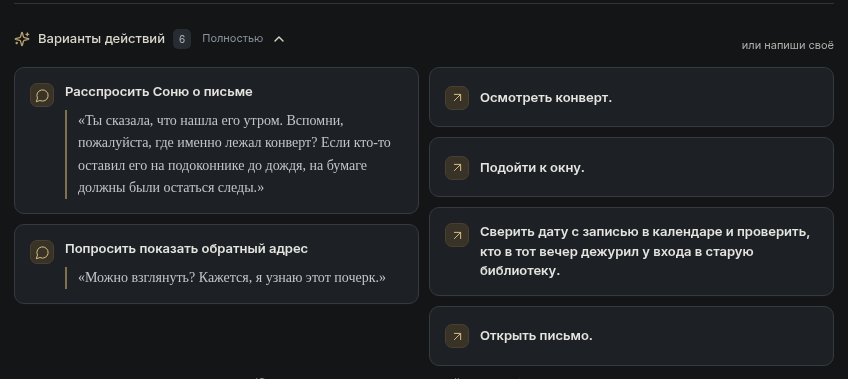
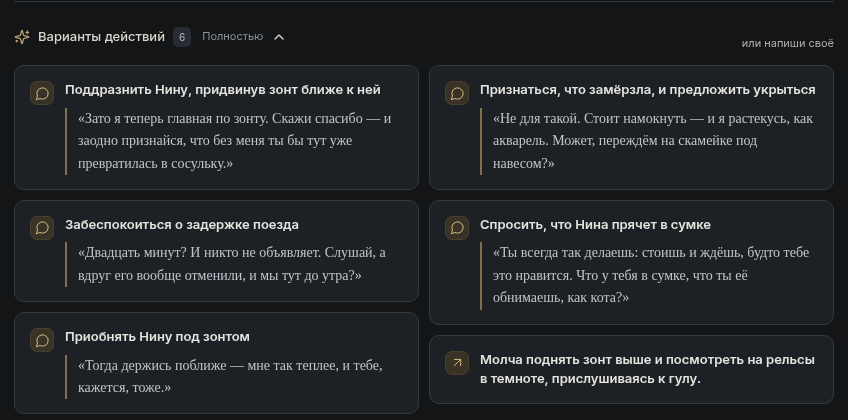
Balance Narrative choice columns using the measured heights of the whole menu

diff --git a/frontend/e2e/choices.spec.ts b/frontend/e2e/choices.spec.ts
@@ -1,5 +1,8 @@
 import {test,expect} from '@playwright/test';
 import {scrollByTouch} from './touch';
+import romance from '../../tests/fixtures/choice_speech/romance.json' with {type: 'json'};
+import ensemble from '../../tests/fixtures/choice_speech/ensemble.json' with {type: 'json'};
+import silent from '../../tests/fixtures/choice_speech/silent.json' with {type: 'json'};
 
 test('choice proposals survive reload without committing action; free input remains available',async({page,request})=>{
  const errors:string[]=[];page.on('pageerror',e=>errors.push(e.message));
@@ -180,59 +183,76 @@ test('proposal types, confirmation, exact editable speech and a single pending s
   expect(await page.evaluate(()=>document.documentElement.scrollWidth)).toBeLessThanOrEqual(page.viewportSize()!.width);
 });
 
-test('unequal action cards fill the first available column in keyboard order', async ({page, request}, info) => {
-  test.skip(info.project.name !== 'desktop', 'Exercises both layouts by resizing the same game');
-  const choices = [
-    {action: 'Расспросить Соню о письме', speech: 'Ты сказала, что нашла его утром. Вспомни, пожалуйста, где именно лежал конверт? Если кто-то оставил его на подоконнике до дождя, на бумаге должны были остаться следы.'},
-    {action: 'Осмотреть конверт.', speech: ''},
-    {action: 'Подойти к окну.', speech: ''},
-    {action: 'Сверить дату с записью в календаре и проверить, кто в тот вечер дежурил у входа в старую библиотеку.', speech: ''},
-    {action: 'Попросить показать обратный адрес', speech: 'Можно взглянуть? Кажется, я узнаю этот почерк.'},
-    {action: 'Открыть письмо.', speech: ''},
-  ];
-  const selection = await (await request.post('/test/choices-seed')).json();
-  const path = '/api/saves/' + selection.save;
-  const save = await (await request.get(path)).json();
-  save.turns.find((t: {id: number}) => t.id === save.physical_choice_source.turn_id).choices = choices;
-  await page.route('**' + path, route => route.fulfill({json: save}));
-  await page.addInitScript(s => localStorage.setItem('selection', JSON.stringify(s)), selection);
-  await page.emulateMedia({reducedMotion: 'reduce'});
-  await page.goto('/');
-  const cards = page.locator('.choices button');
-  await expect(cards.locator('strong')).toHaveText(choices.map(c => c.action));
+// Recorded Narrative responses with both silent actions and direct speech.
+const menus = [
+  [romance.actions[5], romance.actions[3], romance.actions[0]],
+  ensemble.actions.slice(0, 5),
+  romance.actions,
+  [...silent.actions.slice(0, 4), ...ensemble.actions],
+];
 
-  for (const width of [1440, 1024, 850, 390, 1440]) {
-    await page.setViewportSize({width, height: 900});
-    const columns = width > 850 ? 2 : 1;
-    await expect(async () => {
-      const {list, boxes, gap} = await cards.evaluateAll(nodes => {
-        const container = nodes[0].parentElement!;
-        return {
-          list: container.getBoundingClientRect().toJSON(),
-          boxes: nodes.map(n => n.getBoundingClientRect().toJSON()),
-          gap: parseFloat(getComputedStyle(container).rowGap),
-        };
-      });
-      const nextTop = Array<number>(columns).fill(list.top);
-      const cardWidth = (list.width - (columns - 1) * gap) / columns;
-      expect(boxes[0].height).toBeGreaterThan(boxes[1].height + gap);
-      for (const box of boxes) {
-        const column = nextTop.indexOf(Math.min(...nextTop));
-        expect(box.width).toBeCloseTo(cardWidth, 1);
-        expect(box.left).toBeCloseTo(list.left + column * (cardWidth + gap), 1);
-        expect(box.top).toBeCloseTo(nextTop[column], 1);
-        nextTop[column] = box.bottom + gap;
-      }
-      expect(list.bottom).toBeCloseTo(Math.max(...nextTop) - gap, 1);
-    }).toPass({timeout: 5000});
-  }
+for (const actions of menus) {
+  test(`balances ${actions.length} measured choices and keeps their accessible order`, async ({page, request}, info) => {
+    test.skip(info.project.name !== 'desktop', 'Resizes the same list across both layouts');
+    const selection = await (await request.post('/test/choices-seed')).json();
+    const path = '/api/saves/' + selection.save;
+    const save = await (await request.get(path)).json();
+    const choices = actions.map(a => ({action: a.text, speech: a.speech || ''}));
+    save.turns.find((t: {id: number}) => t.id === save.physical_choice_source.turn_id).choices = choices;
+    await page.route('**' + path, route => route.fulfill({json: save}));
+    await page.addInitScript(s => localStorage.setItem('selection', JSON.stringify(s)), selection);
+    await page.emulateMedia({reducedMotion: 'reduce'});
+    await page.goto('/');
+    const cards = page.locator('.choices').getByRole('button');
+    await expect(cards.locator('strong')).toHaveText(actions.map(a => a.text));
+    await expect(cards.locator('.choice-speech')).toHaveText(actions.flatMap(a => a.speech ? ['«' + a.speech + '»'] : []));
 
-  await cards.first().focus();
-  for (let i = 1; i < choices.length; i++) {
-    await page.keyboard.press('Tab');
-    await expect(cards.nth(i)).toBeFocused();
-  }
-  await page.keyboard.press('Enter');
-  await expect(cards.last()).toHaveAttribute('aria-pressed', 'true');
-  await expect(page.getByLabel('Своё действие или реплика')).toHaveValue(choices.at(-1)!.action);
-});
+    for (const width of [1440, 1024, 850, 390, 1440]) {
+      await page.setViewportSize({width, height: 900});
+      const columns = width > 850 ? 2 : 1;
+      await expect(async () => {
+        const {list, boxes, gap, clipped} = await cards.evaluateAll(nodes => {
+          const container = nodes[0].parentElement!;
+          return {
+            list: container.getBoundingClientRect().toJSON(),
+            boxes: nodes.map(n => n.getBoundingClientRect().toJSON()),
+            gap: parseFloat(getComputedStyle(container).rowGap),
+            clipped: nodes.some(n => n.scrollHeight > n.clientHeight || n.scrollWidth > n.clientWidth),
+          };
+        });
+        expect(clipped).toBe(false);
+        const nextTop = Array<number>(columns).fill(list.top);
+        const cardWidth = (list.width - (columns - 1) * gap) / columns;
+        for (const box of boxes) {
+          const column = Math.round((box.left - list.left) / (cardWidth + gap));
+          expect(box.width).toBeCloseTo(cardWidth, 1);
+          expect(box.left).toBeCloseTo(list.left + column * (cardWidth + gap), 1);
+          expect(box.top).toBeCloseTo(nextTop[column], 1);
+          nextTop[column] = box.bottom + gap;
+        }
+        expect(list.bottom).toBeCloseTo(Math.max(...nextTop) - gap, 1);
+        if (columns === 2) {
+          // Independent oracle: enumerate every partition of the actual browser heights.
+          let minimum = Infinity;
+          for (let mask = 1; mask < (1 << boxes.length) - 1; mask++) {
+            const difference = boxes.reduce((sum, box, i) =>
+              sum + ((mask & (1 << i)) ? 1 : -1) * (box.height + gap), 0);
+            minimum = Math.min(minimum, Math.abs(difference));
+          }
+          expect(Math.abs(nextTop[0] - nextTop[1])).toBeCloseTo(minimum, 1);
+        }
+      }).toPass({timeout: 5000});
+    }
+
+    await cards.first().focus();
+    for (let i = 0; i < actions.length; i++) {
+      if (i) await page.keyboard.press('Tab');
+      await expect(cards.nth(i)).toBeFocused();
+      await expect(cards.nth(i)).toHaveAccessibleName(actions[i].text + (actions[i].speech ? ' «' + actions[i].speech + '»' : ''));
+    }
+    await page.keyboard.press('Enter');
+    await expect(cards.last()).toHaveAttribute('aria-pressed', 'true');
+    const last = actions.at(-1)!;
+    await expect(page.getByLabel('Своё действие или реплика')).toHaveValue(last.text + (last.speech ? ': «' + last.speech + '»' : ''));
+  });
+}

diff --git a/frontend/src/NarrativeChoice.tsx b/frontend/src/NarrativeChoice.tsx
@@ -7,6 +7,42 @@ export function choiceText({ action, speech }: Choice) {
   return action + (action.trimEnd().endsWith(':') ? ' ' : ': ') + '«' + speech + '»';
 }
 
+type ColumnPlan = {
+  difference: number; // Left height minus right height, including the space after each card.
+  column: number;
+  previous: ColumnPlan | null;
+};
+
+function balancedColumns(heights: number[], gap: number) {
+  let plans: ColumnPlan[] = [{ difference: 0, column: 0, previous: null }];
+  for (const height of heights) {
+    const next = new Map<number, ColumnPlan>();
+    for (const plan of plans) {
+      // Prefer the earlier visual position when equally balanced layouts exist.
+      const shorter = plan.difference <= 0 ? 0 : 1;
+      for (const column of [shorter, 1 - shorter]) {
+        const difference = plan.difference + (column === 0 ? 1 : -1) * (height + gap);
+        const imbalance = Math.abs(difference);
+        // Mirror-image and equal differences have the same possible final heights.
+        if (!next.has(imbalance)) next.set(imbalance, { difference, column, previous: plan });
+      }
+    }
+    plans = Array.from(next.values());
+    // Ten cards have at most 512 distinct partitions. Bound work for oversized saved menus.
+    if (plans.length > 512) {
+      plans.sort((a, b) => Math.abs(a.difference) - Math.abs(b.difference));
+      plans.length = 512;
+    }
+  }
+  let best = plans.reduce((a, b) => Math.abs(a.difference) <= Math.abs(b.difference) ? a : b);
+  const columns = [];
+  while (best.previous) {
+    columns.push(best.column);
+    best = best.previous;
+  }
+  return columns.reverse();
+}
+
 export function NarrativeChoiceList({ ref, children }: {
   ref: RefObject<HTMLDivElement | null>;
   children: ReactElement[];
@@ -22,11 +58,12 @@ export function NarrativeChoiceList({ ref, children }: {
       if (style.gridTemplateColumns.split(' ').length !== 2) return;
       const gap = parseFloat(style.rowGap);
       const heights = cards.map(card => card.getBoundingClientRect().height);
+      const columns = balancedColumns(heights, gap);
       const nextTop = [0, 0];
 
-      // Place in reading order. Margins in one grid row give the list its natural height.
+      // Position the existing buttons without changing screen-reader or keyboard order.
       cards.forEach((card, i) => {
-        const column = nextTop[0] <= nextTop[1] ? 0 : 1;
+        const column = columns[i];
         card.style.setProperty('--choice-column', String(column + 1));
         card.style.setProperty('--choice-offset', nextTop[column] + 'px');
         nextTop[column] += heights[i] + gap;
